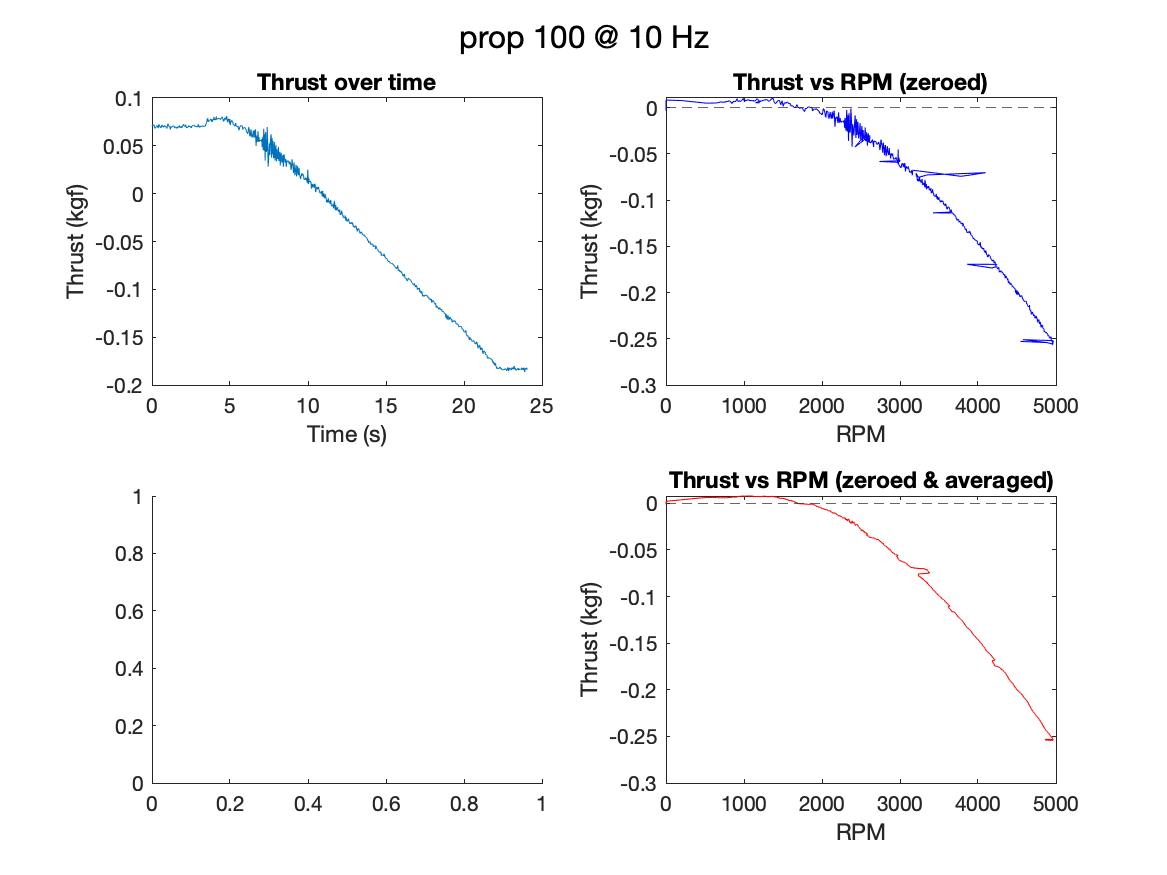
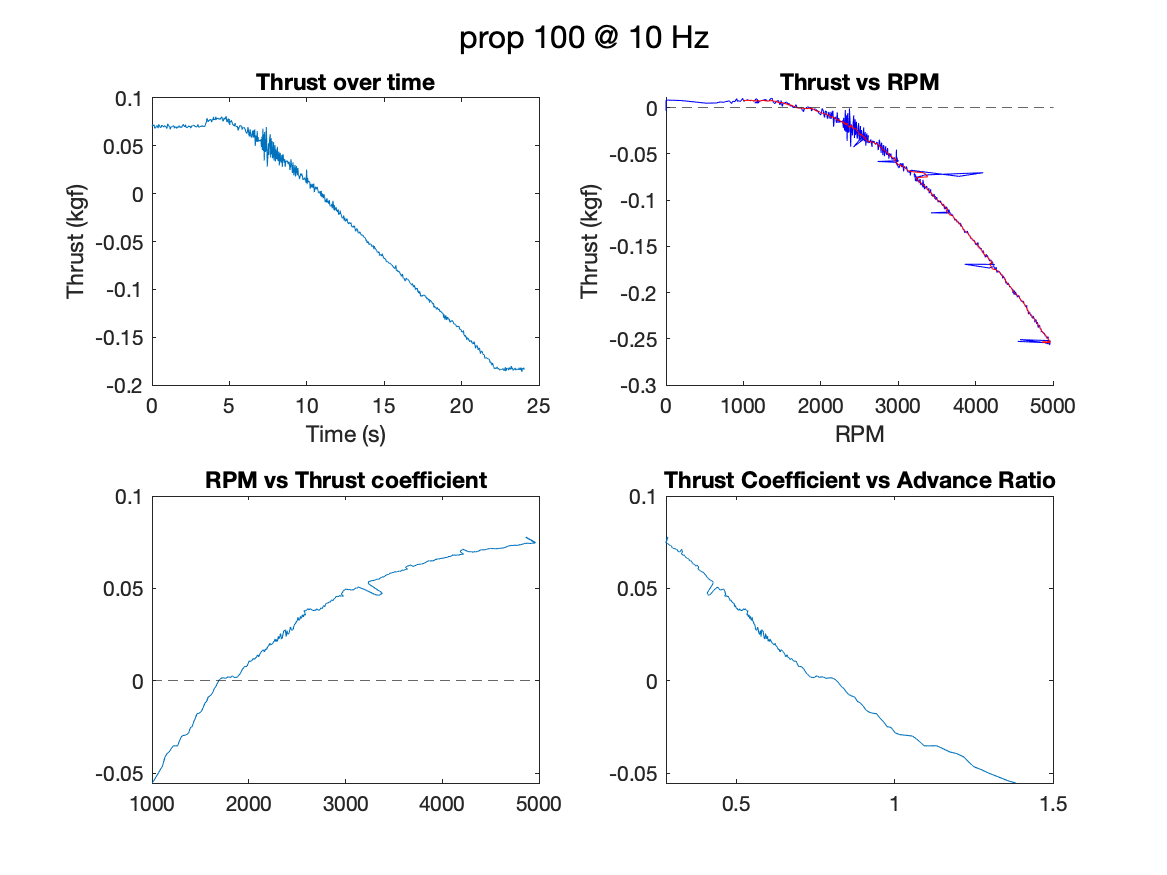
add advance ratio and Kt

diff --git a/analyze_single.m b/analyze_single.m
@@ -2,7 +2,7 @@ function result_struct = analyze_single(prop_size, freq)
     result_struct.status = 1;
     
     % Read in data
-    cd phase1_data
+    addpath('phase1_data');
     test_name = sprintf("prop%d_%d",prop_size,freq);
     table_in = readtable(sprintf("%s.csv",test_name));
     arr_in = table2array(table_in);
@@ -18,31 +18,49 @@ function result_struct = analyze_single(prop_size, freq)
     % Index when ESC starts increasing
     power_start = find(arr_cut(:,2) > 1000 , 1);
     
-    
+    % For Debug
     fprintf("%d: %d, %d - %d\n", freq, rpm_start, power_start, arr_cut(power_start,13));
     
-    if (size(rpm_start,1) == 0) % Err when prop is already turning
+    % Err when prop is already turning or prop is turning before power
+    if (size(rpm_start,1) == 0 || power_start > rpm_start) 
         result_struct.status = 0;
         result_struct.code = 1;
         return; 
     end
     
-    if (power_start > rpm_start) % Err when prop is turning before power
-        result_struct.status = 0;
-        result_struct.code = 2;
-        return; 
-    end
+    % THRESHOLDS
+    avgs = 10;
+    rpm_cutoff = 1000;
     
     % Grab relevant data 
     time_arr = arr_cut(:,1);
     thrust_arr = arr_cut(:,10);
+    thrust_zeroed = thrust_arr - thrust_arr(1);
     rpm_arr = arr_cut(:,13);
+    rpm_avg = movmean(rpm_arr, avgs);
+    thrust_avg = movmean(thrust_zeroed, avgs);
     
     % Adjust data for plotting
-    thrust_zeroed = thrust_arr - thrust_arr(1);
-    avgs = 10;
-    thrust_avg = movmean(thrust_zeroed, avgs);
-    rpm_avg = movmean(rpm_arr, avgs);
+    rpm_cutoff_idx = find(rpm_arr > rpm_cutoff, 1, 'first');
+    thrust_cutoff_idx = find(thrust_avg < -0.01, 1, 'first');
+    fprintf("%d_%d\n", rpm_cutoff_idx, thrust_cutoff_idx);
+    cutoff_idx = rpm_cutoff_idx;
+    
+    rpm_avg = rpm_avg(cutoff_idx:end);
+    thrust_avg = thrust_avg(cutoff_idx:end);
+    
+    % Run Calculations
+    Kt = [];
+    J = [];
+    U = tunnel_info('velocity',freq);
+    dens = tunnel_info('density');
+    D = prop_size/10 * 0.0254; % tenth inch to meters
+    for i = 1:numel(rpm_avg)
+        n = rpm_avg(i) / 60; % rpm to rps
+        T = thrust_avg(i) * 9.80665; % kgf to N 
+        J(i) = U / (n * D);
+        Kt(i) = -T / (dens * n^2 * D^4);
+    end
 
     % Package results
     result_struct.prop_size = prop_size;
@@ -55,6 +73,8 @@ function result_struct = analyze_single(prop_size, freq)
     result_struct.rpm_avg = rpm_avg;
     result_struct.power_start_idx = power_start;
     result_struct.rotation_start_idx = rpm_start;
+    result_struct.J = J;
+    result_struct.Kt = Kt;
     
     
     % Plot results
@@ -74,18 +94,20 @@ function plot_single(result_struct)
     title("Thrust over time");
     
     subplot(2,2,2);
+    hold on
     plot(result_struct.rpm, result_struct.thrust_zeroed, '-b');
-    yline(0,'--');
-    xlabel("RPM");
-    ylabel("Thrust (kgf)");
-    title("Thrust vs RPM (zeroed)");
-    
-    subplot(2,2,3);
-    
-    subplot(2,2,4);
     plot(result_struct.rpm_avg, result_struct.thrust_avg, '-r');
     yline(0,'--');
     xlabel("RPM");
     ylabel("Thrust (kgf)");
-    title("Thrust vs RPM (zeroed & averaged)");
+    title("Thrust vs RPM");
+    
+    subplot(2,2,3);
+    plot(result_struct.rpm_avg, result_struct.Kt);
+    yline(0,'--');
+    title("RPM vs Thrust coefficient");
+    
+    subplot(2,2,4);
+    plot(result_struct.J, result_struct.Kt);
+    title("Thrust Coefficient vs Advance Ratio");
 end

diff --git a/analyze_prop.m b/analyze_prop.m
@@ -1,0 +1,51 @@
+function  analyze_prop(propSize)
+
+    %Plot 1
+    all_thrust_zero = figure('Name', 'all_thrust_zero');
+    hold on
+    title(sprintf("prop %d Thrust over Time\n(zeroed at initial Thrust)", propSize));
+    
+    %Plot 2
+    all_thrust = figure('Name', 'all_thrust');
+    hold on
+    title(sprintf("prop %d Thrust over Time", propSize));
+    
+    %Plot 3
+    adv_ratio_kt = figure('Name', 'adv_ratio_kt');
+    hold on
+    title(sprintf("prop %d Advance Ratio vs Thrust Coefficient", propSize));
+    
+    legend_labels = {};
+    label_idx = 1;
+    
+    for freq = 10:2:24 % 10:2:24
+        result_struct = analyze_single(propSize, freq);
+        
+        if (result_struct.status)
+            % Add legend entry
+            legend_labels{label_idx} = sprintf("%d Hz", freq);
+            label_idx = label_idx + 1;
+            
+            %Plot 1
+            figure(all_thrust_zero);
+            plot(result_struct.time, result_struct.thrust_zeroed);
+            
+            %Plot 2
+            figure(all_thrust);
+            plot(result_struct.time, result_struct.thrust);
+            
+            %Plot 3
+            figure(adv_ratio_kt);
+            plot(result_struct.J, result_struct.Kt,'.');
+            ylim([0,0.1]);
+        end
+    end
+    
+    figure(all_thrust_zero);
+    legend(legend_labels);
+    figure(all_thrust);
+    legend(legend_labels);
+    figure(adv_ratio_kt);
+    legend(legend_labels);
+end
+

diff --git a/analyze_all_driver.m b/analyze_all_driver.m
@@ -1,0 +1,22 @@
+close all
+clear
+
+save_all = false;
+
+propSizes = {90,95,100}; % inch * 10^-1
+
+
+for propID = 1:3
+    analyze_prop(propSizes{propID});
+    
+    if (save_all)
+        FigList = findobj(allchild(0), 'flat', 'Type', 'figure');
+        for iFig = 1:length(FigList)
+            FigHandle = FigList(iFig);
+            FigName   = get(FigHandle, 'Name');
+            folderName = sprintf("prop%d_plots", propSizes{propID});
+            saveas(FigHandle, fullfile(folderName,strcat(FigName, '.png')))
+        end
+    end
+    close all
+end
